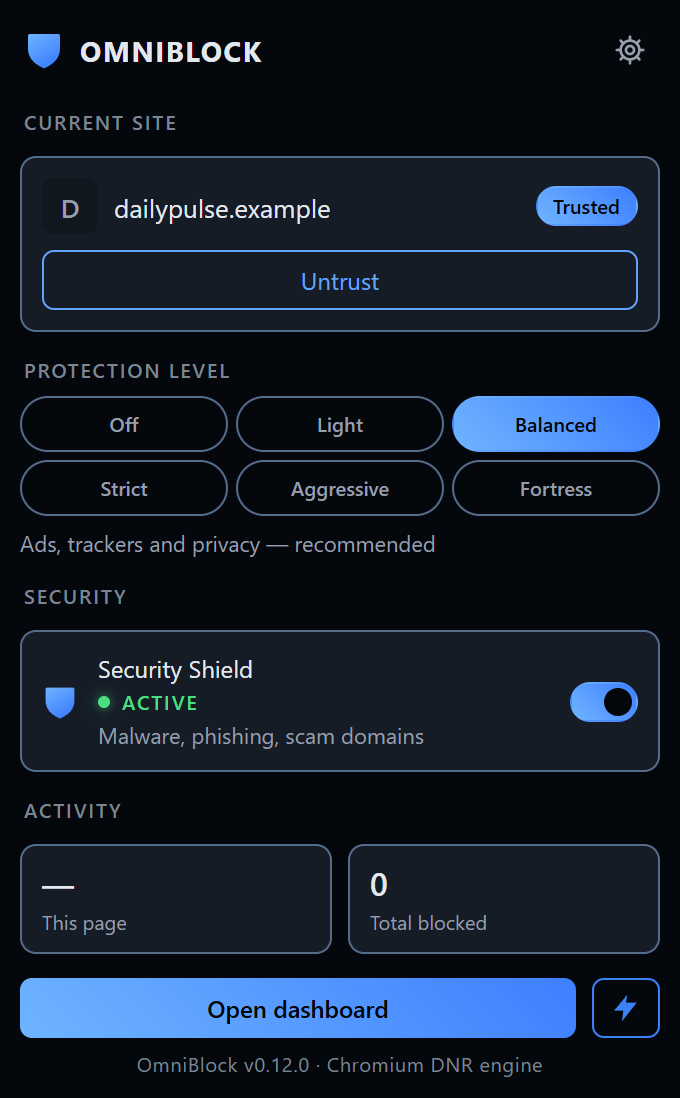
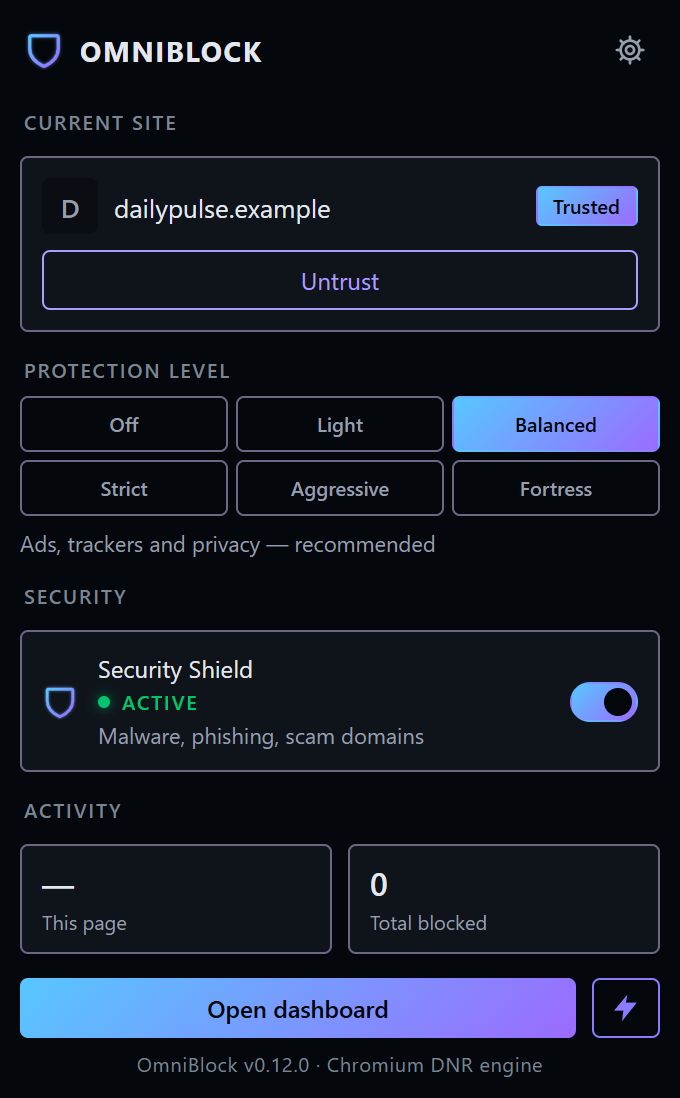
Realign the whole mark and palette to the OmniVex family
The design was an outlier and the owner said so. Two things were wrong, and
neither was a matter of taste:

- The accent was a bespoke blue (#3B82F6), carrying a code comment that
  insisted it was "not cyan, not violet". Every other tool in the suite runs
  violet #8A7BFF with the cyan-to-violet sweep #57C7FF -> #9B6BFF. That is
  recorded in OmniScale's Tokens.xaml and settled in OmniEQ's
  docs/omni-design-tokens.md; "colour is the family, shape is the member".
- The icon had no corner seams, no concentric grooves, and painted the shield
  as a SOLID silhouette. The shipped icons of OmniScale, OmniAPO and OmniShade
  all carry seams, grooves and a glowing neon OUTLINE glyph.

Also realigned: the background ramp to the canonical four steps, the status
trio to OmniSuccess/OmniWarning/OmniError, and the radii to OmniRadiusControl
4px / OmniRadiusChip 3px -- the suite is tight and technical, and the old
full-round pills were most of why this read as a different product. Full-round
survives only on toggle switches, where the pill IS the metaphor.

Every screenshot here was re-captured from a rebuilt extension, so the images
show the software that actually exists rather than the previous palette.

Two token deviations are kept and documented, both accessibility fixes that
predate this work: --omni-text-muted stays above canonical, and --omni-border
stays a solid (re-hued into the violet family) because canonical white-7% is
[…]

diff --git a/README.md b/README.md
@@ -8,11 +8,11 @@ A content blocker for Chromium and Firefox — six protection levels, an always-
 security shield, custom lists, and per-site control.
 Part of the [OmniVex](#the-omnivex-suite) suite.
 
-![Version](https://img.shields.io/badge/version-0.12.0-3B82F6?style=for-the-badge)
-![License](https://img.shields.io/badge/license-GPL--3.0--or--later-3B82F6?style=for-the-badge)
-![Browsers](https://img.shields.io/badge/Chromium%20%C2%B7%20Firefox-3B82F6?style=for-the-badge)
-![Languages](https://img.shields.io/badge/EN%20DE%20ES%20FR%20RO-3B82F6?style=for-the-badge)
-![Telemetry](https://img.shields.io/badge/telemetry-none-4ADE80?style=for-the-badge)
+![Version](https://img.shields.io/badge/version-0.12.0-8A7BFF?style=for-the-badge)
+![License](https://img.shields.io/badge/license-GPL--3.0--or--later-8A7BFF?style=for-the-badge)
+![Browsers](https://img.shields.io/badge/Chromium%20%C2%B7%20Firefox-8A7BFF?style=for-the-badge)
+![Languages](https://img.shields.io/badge/EN%20DE%20ES%20FR%20RO-8A7BFF?style=for-the-badge)
+![Telemetry](https://img.shields.io/badge/telemetry-none-00C66D?style=for-the-badge)
 
 [**Get OmniBlock**](#get-omniblock) · [Features](#what-it-does) · [Install](docs/INSTALL.md) · [FAQ](docs/FAQ.md) · [Privacy](docs/PRIVACY.md) · [Changelog](CHANGELOG.md)
 
